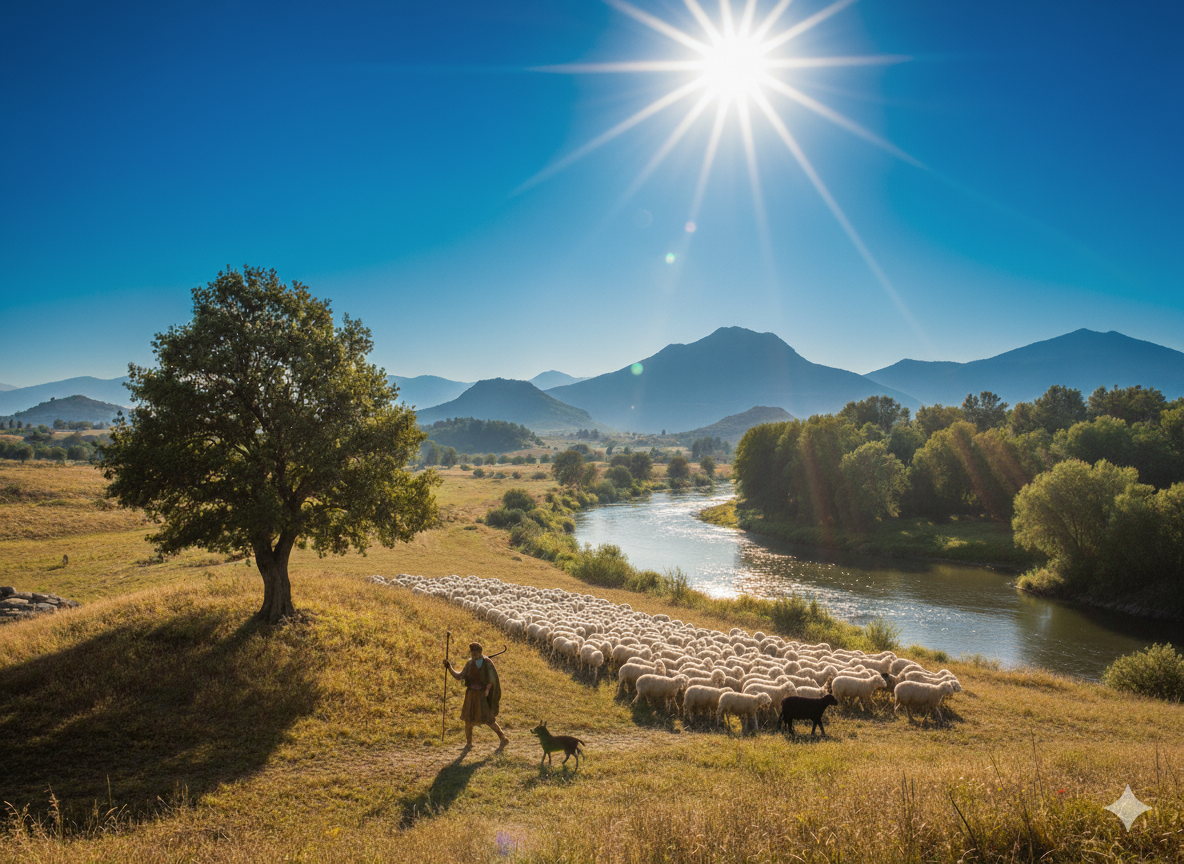
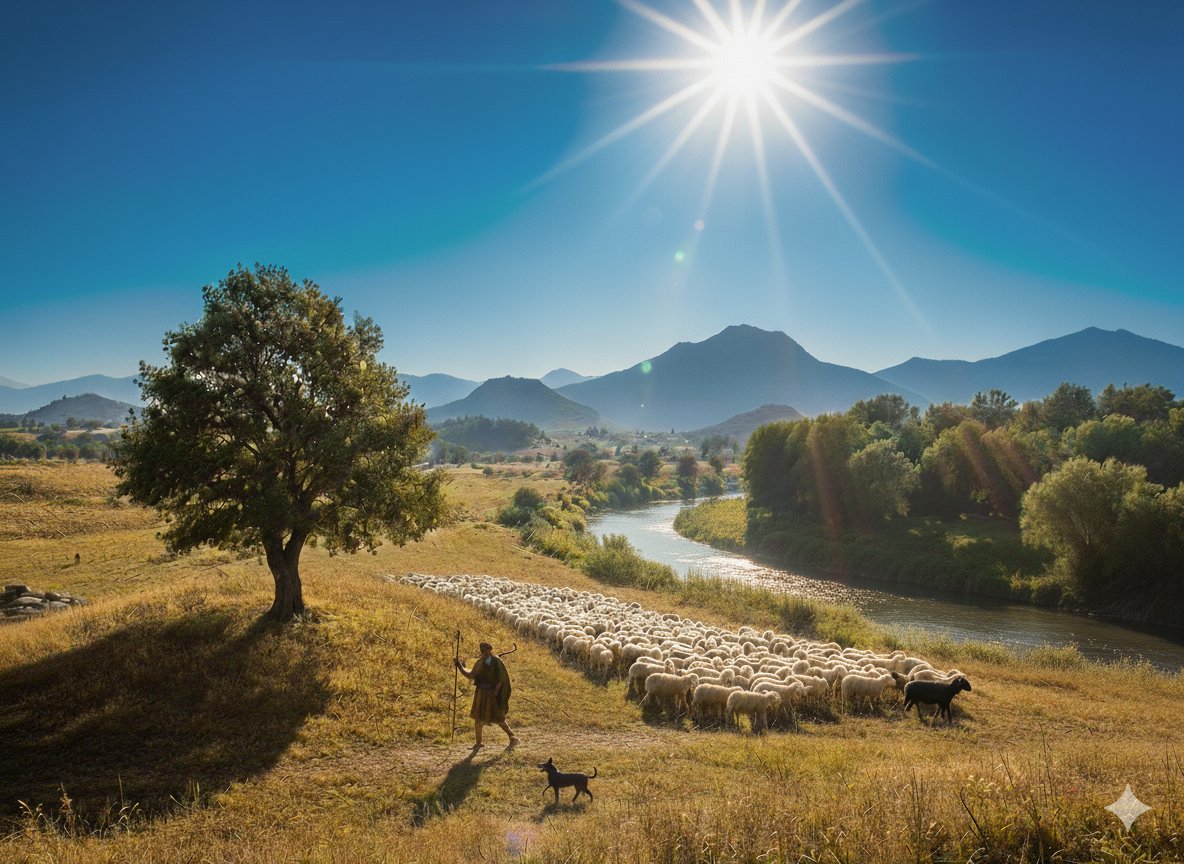
before updating modals

diff --git a/pages/chapter/09/content.js b/pages/chapter/09/content.js
@@ -17,14 +17,12 @@ export default function ChapterPage() {
       case "text":
         return (
           <>
-            <div style={{borderRadius: "20px"}}>
-              <Image
-                src="/images/09-main.png"
-                alt="A shepard and his dog"
-                width={624}
-                height={416}
-              />
-            </div>
+            <img
+              src="/images/09-main-commented.png"
+              alt="A shepherd and his dog"
+              loading="lazy"
+              className="responsive-img" // defined in globals.css
+            />
             <p>
               {m("H-ic", "mas-nom")} {m("vir-", "mas-nom")},{" "}
               {m("qu-ī", "mas-nom")} in {m("camp-ō", "mas-abl")} ambulat,{" "}
@@ -32,7 +30,7 @@ export default function ChapterPage() {
               {m("Pāstor-", "mas-nom")} nōn {m("sol-us", "mas-nom")} est in{" "}
               {m("camp-ō", "mas-abl")}, nam {m("can-is", "mas-nom")}{" "}
               {m("nig-er", "mas-nom")} cum {m("e-ō", "mas-abl")} est et centum{" "}
-              {m("ovēs", "mas-nom")}: {m("ūn-a", "fem-nom")}{" "}
+              {m("ov-ēs", "fem-nom")}: {m("ūn-a", "fem-nom")}{" "}
               {m("ov-is", "fem-nom")} {m("nigr-a", "fem-nom")} et ūndēcentum{" "}
               {m("ov-ēs", "fem-nom")} {m("alb-æ", "fem-nom")}.{" "}
               {m("Pāstor-", "mas-nom")} {m("ūn-am", "fem-acc")}{" "}

diff --git a/components/Home.js b/components/Home.js
@@ -36,6 +36,7 @@ function Home() {
           <CustomButton
             bColor="3"
             tColor="0"
+            wSize="150px"
             text={t("settings")}
             handleFunction={() => setIsSettings((prev) => !prev)}
           />
@@ -52,12 +53,14 @@ function Home() {
           <CustomButton
             bColor="3"
             tColor="0"
+            wSize="150px"
             text={t("signup")}
             // handleFunction={() => setIsSettings((prev) => !prev)}
           />
           <CustomButton
             bColor="3"
             tColor="0"
+            wSize="150px"
             text={t("signin")}
             handleFunction={() => {
               dispatch(setChapter(book === "book1" ? 9 : 36));

diff --git a/styles/globals.css b/styles/globals.css
@@ -89,6 +89,16 @@ body.morph-subjunctive .subjunctive {
   text-decoration: underline dotted;
 }
 
+/* ========== Images ========== */
+.responsive-img {
+  display: block;              /* évite le petit espace sous l’image */
+  width: calc(100% - 40px);    /* largeur responsive avec marge incluse */
+  margin: 0 20px;              /* marges gauche et droite */
+  border-radius: 20px;         /* coins arrondis */
+  border: 1px solid var(--color-2); /* couleur de bordure */
+  height: auto;                /* conserve le ratio */
+}
+
 /* ========== GLOBAL RESET ========== */
 * {
   box-sizing: border-box;

diff --git a/reducers/morphology.js b/reducers/morphology.js
@@ -2,7 +2,15 @@ import { createSlice } from "@reduxjs/toolkit";
 import morphologyConfig from "data/morphologyConfig";
 
 const initialState = morphologyConfig.reduce((acc, morph) => {
-  acc[morph.key] = true;
+  if (
+    morph.key === "masculine" ||
+    morph.key === "feminine" ||
+    morph.key === "neuter"
+  ) {
+    acc[morph.key] = false;
+  } else {
+    acc[morph.key] = true;
+  }
   return acc;
 }, {});
 

diff --git a/reducers/navigation.js b/reducers/navigation.js
@@ -1,7 +1,7 @@
 import { createSlice } from "@reduxjs/toolkit";
 
 const initialState = {
-  value: { book: "book1", chapter: 1, section: "text"},
+  value: { book: "book1", chapter: 9, section: "text"},
 };
 
 export const navigationSlice = createSlice({
